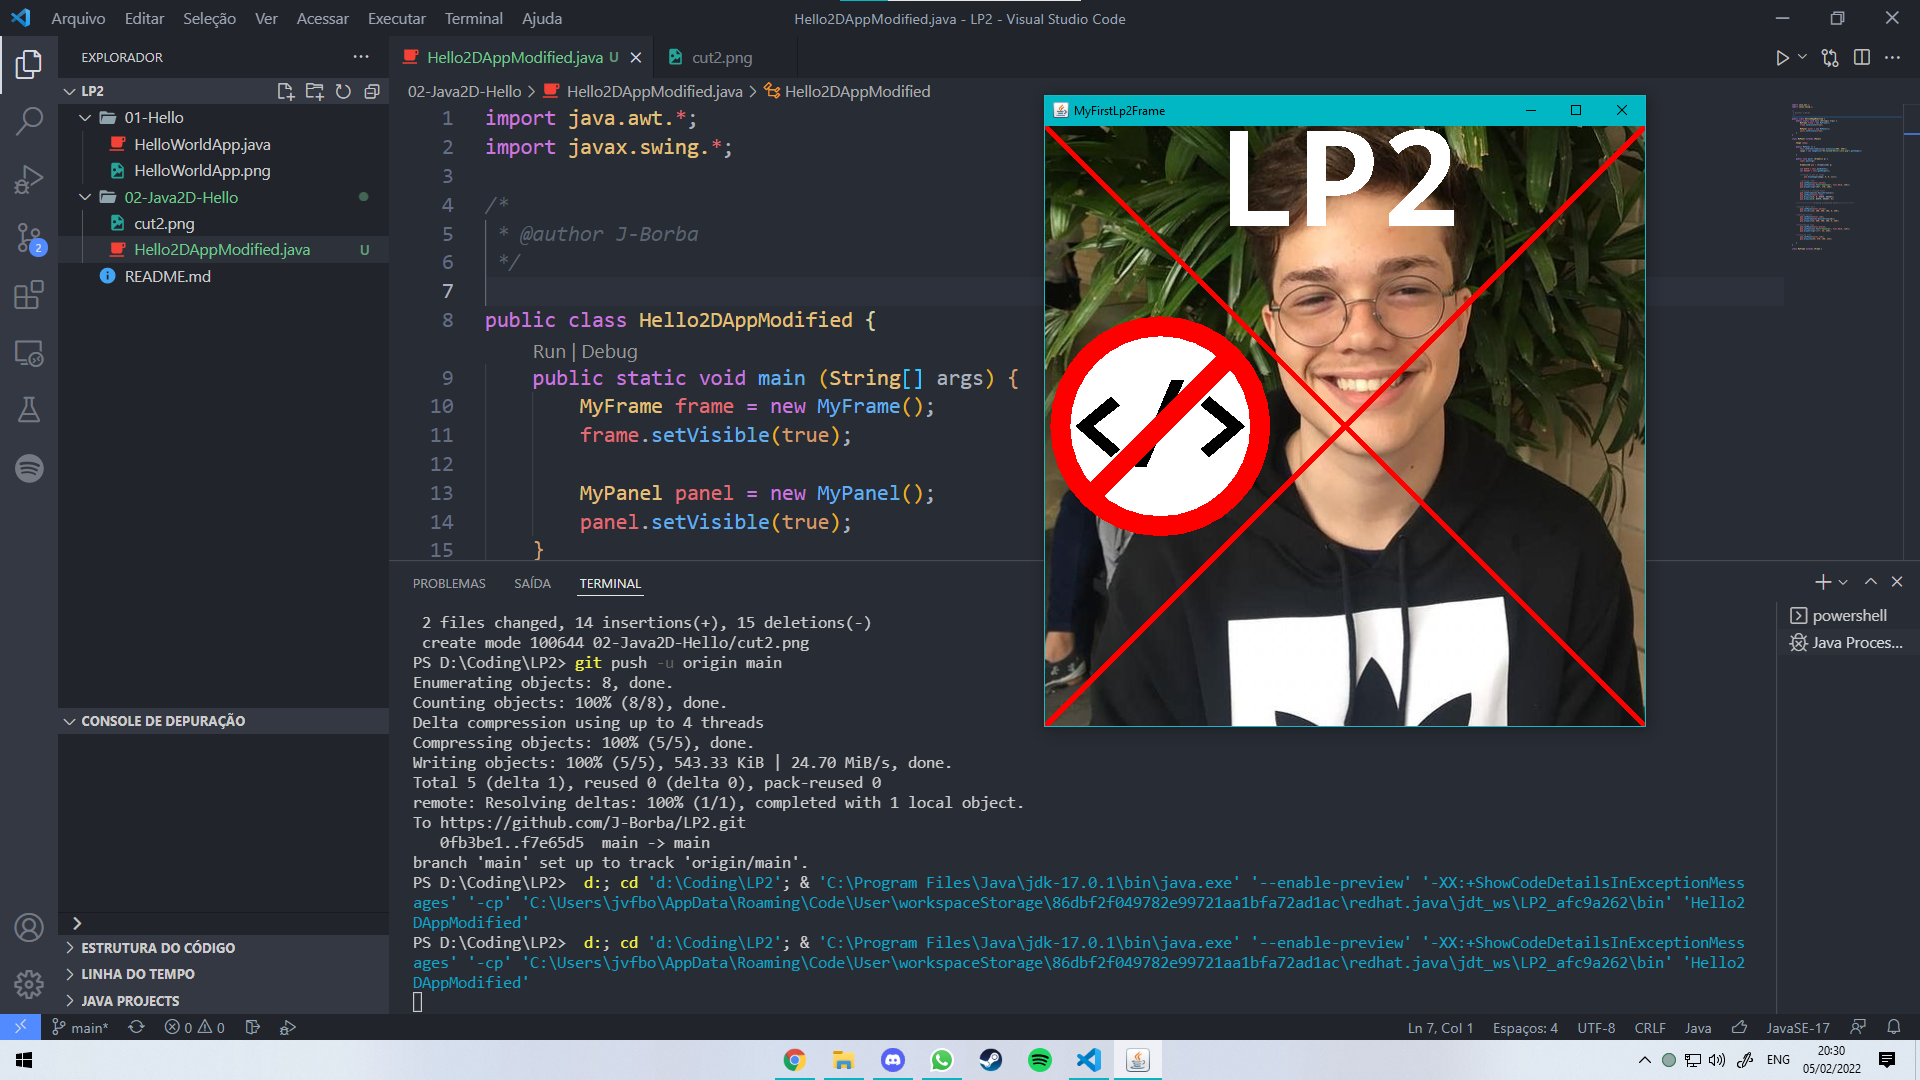
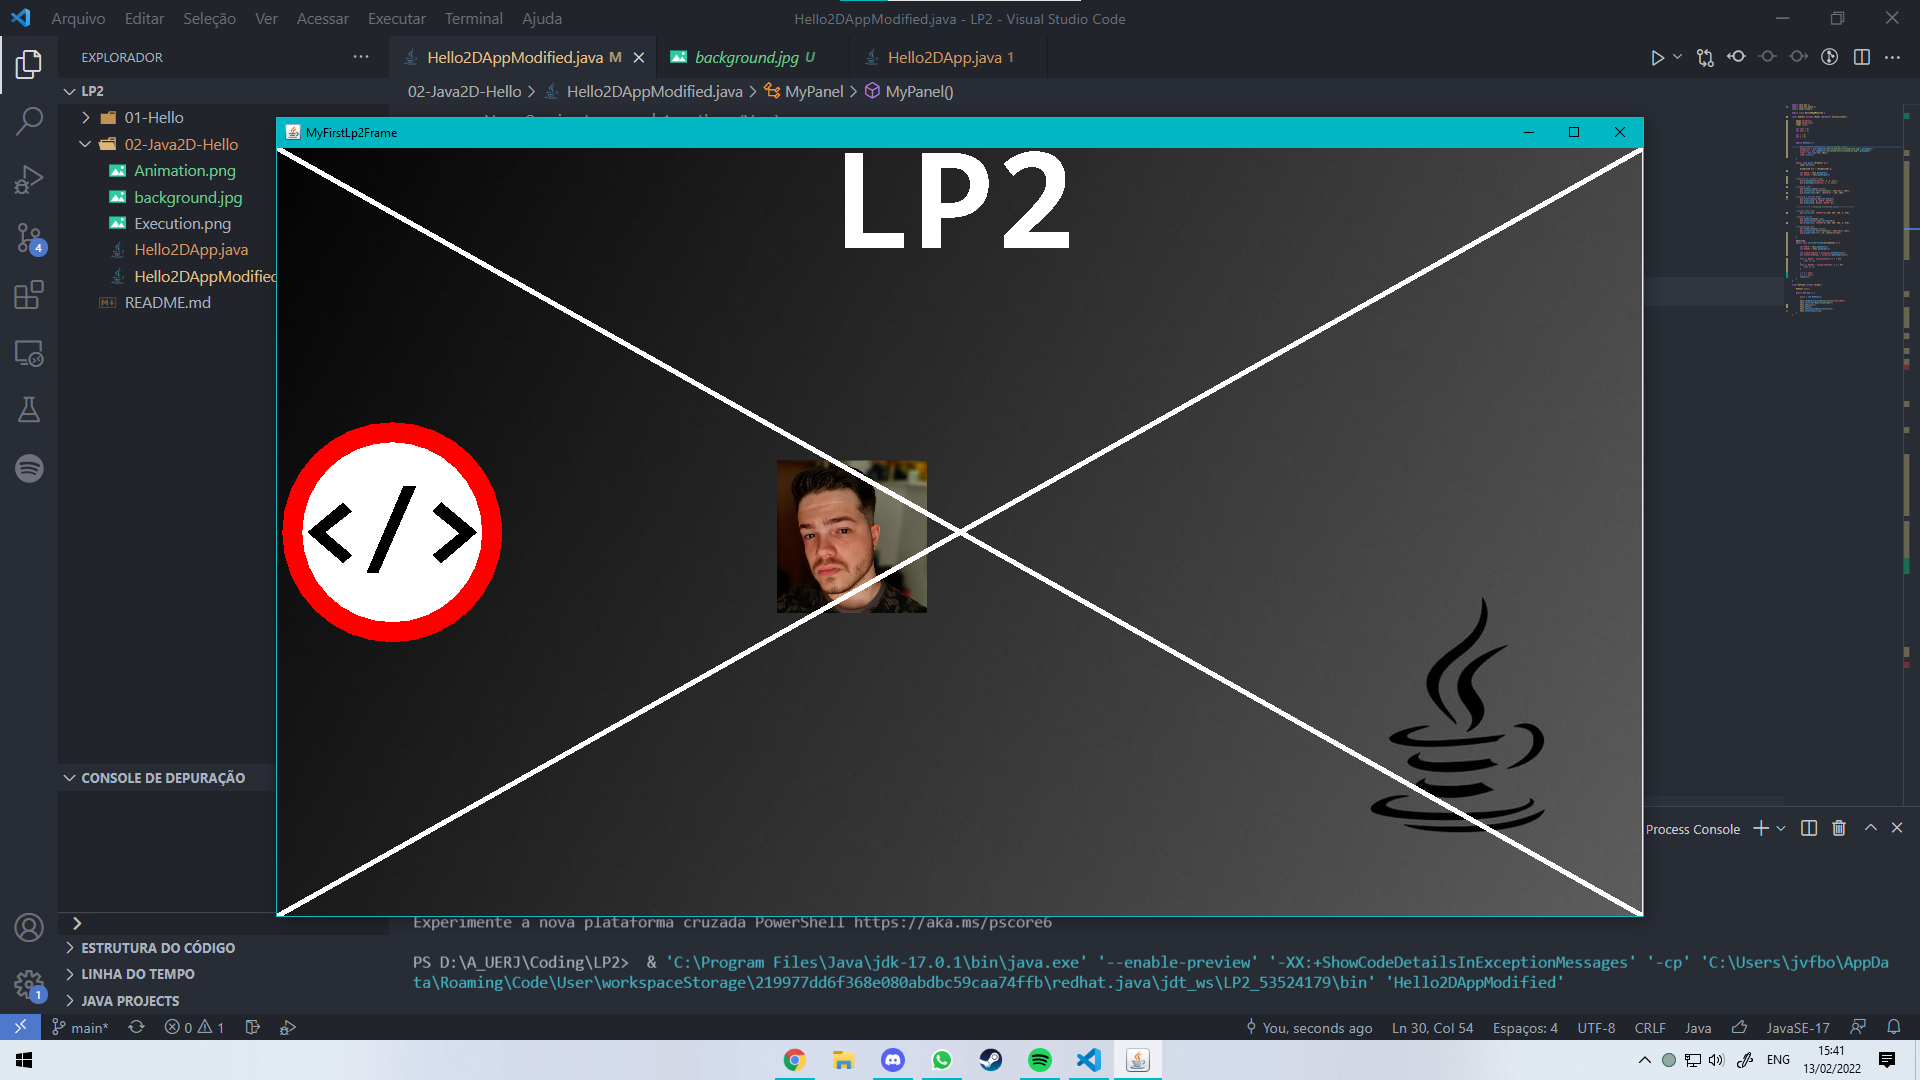
Animating

diff --git a/02-Java2D-Hello/Hello2DAppModified.java b/02-Java2D-Hello/Hello2DAppModified.java
@@ -1,4 +1,5 @@
 import java.awt.*;
+import java.awt.event.*;
 import javax.swing.*;
 
 public class Hello2DAppModified {
@@ -11,58 +12,87 @@ public class Hello2DAppModified {
     }
 }
 
-class MyPanel extends JPanel{
+class MyPanel extends JPanel implements ActionListener{
     
-    Image image;
-    
-    public MyPanel () {
-        this.setPreferredSize(new Dimension(600, 600));
-        image = new ImageIcon("02-Java2D-Hello\\cut2.png").getImage(); 
-        
+    Image animation;
+    Image background;
+    Timer timer;
+
+    int xVel = 5;
+    int yVel = 4;
+
+    int x = 0;
+    int y = 0;
+
+
+    public MyPanel() {
+
+        this.setPreferredSize(new Dimension(1366, 768));
+        background = new ImageIcon("02-Java2D-Hello\\background.jpg").getImage();
+        animation = new ImageIcon("02-Java2D-Hello\\Animation.png").getImage();
+        timer = new Timer(10, this);
+        timer.start();
+
     }
     
     public void paint (Graphics g) {
         super.paint(g);
         
         Graphics2D g2d = (Graphics2D) g;
-        
+
         int WIDTH = this.getWidth();
         int HEIGHT = this.getHeight();
-        
-        //Putting an image
-        g2d.drawImage(image, 0, 0, null);
 
-        //Drawing "LP2"
+    //Putting an animated image
+        g2d.drawImage(background, 0, 0, null); 
+        g2d.drawImage(animation, x, y, null);
+
+    //Drawing "LP2"
         g2d.setPaint(Color.white);
         g2d.setFont(new Font("Consolas", Font.BOLD, 150));
-        g2d.drawString("LP2", 170, 100);
+        g2d.drawString("LP2", (WIDTH/2) - 130, 100);
         
-        //Drawing X through Panel
+    //Drawing X through Panel
         g2d.setStroke(new BasicStroke(5));
-        g2d.setPaint(Color.red);
         g2d.drawLine(0, 0, WIDTH, HEIGHT);
         g2d.drawLine(0, HEIGHT, WIDTH, 0);
 
     //-=-=-=-=-=-=-=-=Drawing prohibited plate-=-=-=-=-=-=-=-=
 
     //Inside white part
-        g2d.setPaint(Color.white);
-        g2d.fillArc(15, 200, 200, 200, 0, 360);
+        g2d.fillArc(15, (HEIGHT/2)-100, 200, 200, 0, 360);
 
     //Outside Circle
         g2d.setPaint(Color.red);
         g2d.setStroke(new BasicStroke(20));
-        g2d.drawArc(15, 200, 200, 200, 0, 360);
+        g2d.drawArc(15, (HEIGHT/2)-100, 200, 200, 0, 360);
         
     //Programming Logo
         g2d.setPaint(Color.black);
         g2d.setFont(new Font("Consolas", Font.BOLD, 110));
-        g2d.drawString("</>", 25, 330);
+        g2d.drawString("</>", 25, (HEIGHT/2)+30);
 
-    //Crossing Line
-        g2d.setPaint(Color.red);
-        g2d.drawLine(45, 370, 180, 235);
-    
+    }
+
+    @Override
+    public void actionPerformed(ActionEvent e) {
+        
+        int WIDTH = this.getWidth();
+        int HEIGHT = this.getHeight();
+        
+        int animationWidth = animation.getWidth(null);
+        int animationHeight = animation.getHeight(null);
+
+        if(x >= WIDTH - animationWidth || x < 0){
+            xVel *= -1;
+        }
+        if(y >= HEIGHT - animationHeight || y < 0){
+            yVel *= -1;
+        }
+
+        x = x + xVel;
+        y = y + yVel;
+        repaint();
     }
 }
 
@@ -76,10 +106,9 @@ class MyFrame extends JFrame {
 
         this.setDefaultCloseOperation(EXIT_ON_CLOSE);
         this.setTitle("MyFirstLp2Frame");
-        this.setSize(600, 600);
-        this.setLocationRelativeTo(null);
-        this.setVisible(true);
         this.add(panel);
         this.pack();
+        this.setLocationRelativeTo(null);
+        this.setVisible(true);
     }
 }
